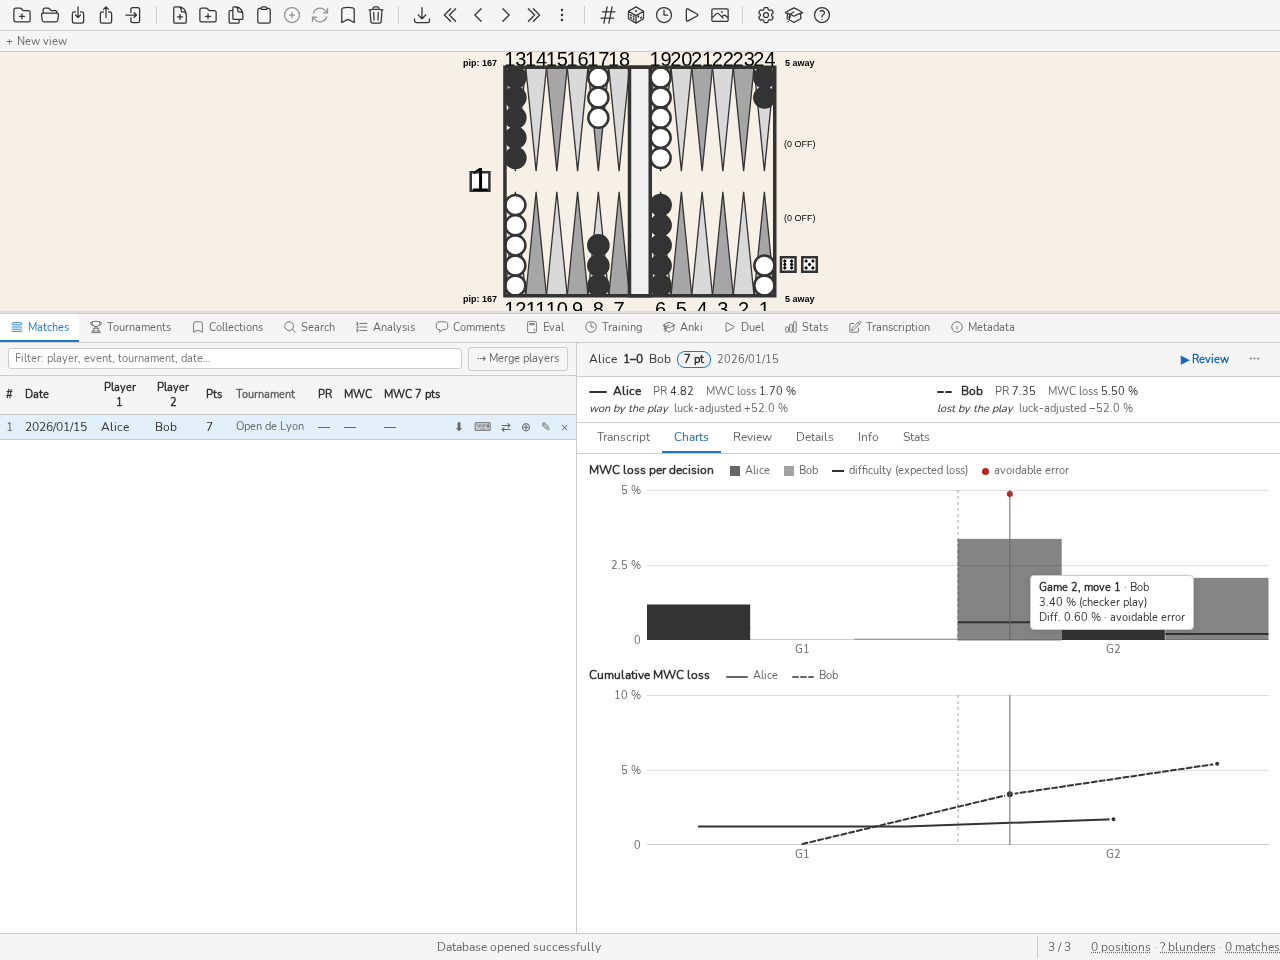
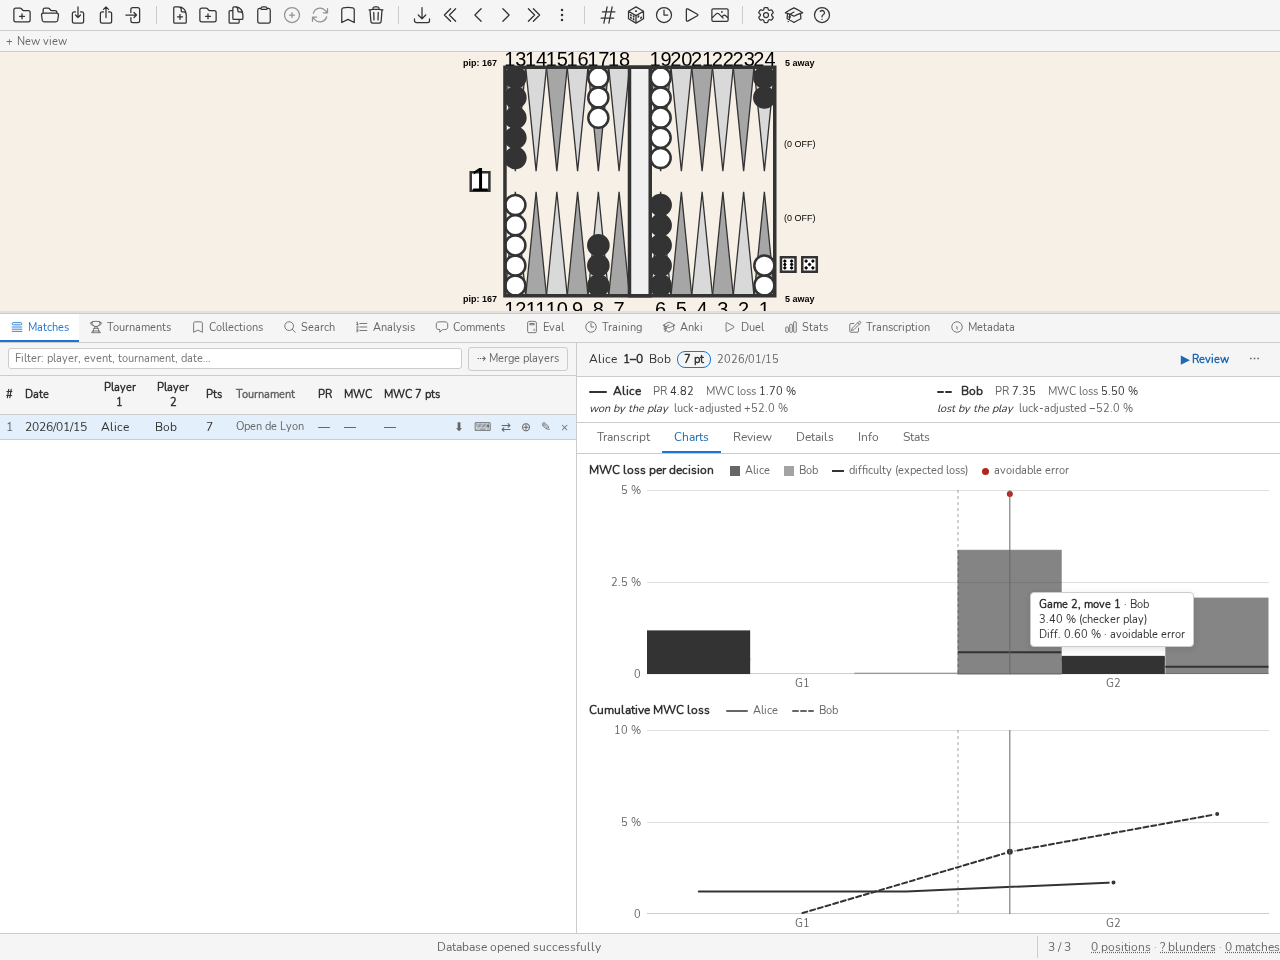
feat(match): les graphes se partagent la hauteur de l'onglet Graphes
Chaque graphe prend sa part de la hauteur de l'onglet (durées 2, pertes 5
pour 5), au-dessus d'un minimum lisible ; l'onglet ne défile que sous ce
minimum. Le tracé est mesuré à sa taille en pixels, l'info-bulle reste dans
ce cadre.

diff --git a/frontend/src/components/MatchLosses.svelte b/frontend/src/components/MatchLosses.svelte
@@ -11,17 +11,18 @@
     /** @type {{ losses: any[] | null, movePositions: any[], player1: string, player2: string, hovered?: number | null, onhover?: (moveId: number | null) => void, onselect?: (index: number) => void }} */
     let { losses, movePositions, player1, player2, hovered = null, onhover = () => {}, onselect = () => {} } = $props();
 
-    const H = 150;
+    // The least height a plot keeps; the Charts tab shares the rest of its height out.
+    const MIN_H = 140;
 
     let series = $derived(lossSeries(movePositions, losses));
     let peak = $derived(niceCeil(Math.max(0, ...series.items.map((d) => Math.max(d.loss ?? 0, d.difficulty ?? 0)))));
     let cumPeak = $derived(niceCeil(Math.max(series.totals[0], series.totals[1])));
     let names = $derived([player1, player2]);
 
-    /** @param {number} loss @param {number} top */
-    const barH = (loss, top) => (loss > 0 ? Math.max(1, (loss / top) * (H - 2)) : 0);
-    /** @param {number} cum */
-    const cumY = (cum) => H - 1 - (cum / cumPeak) * (H - 4);
+    /** @param {number} loss @param {number} top @param {number} H */
+    const barH = (loss, top, H) => (loss > 0 ? Math.max(1, (loss / top) * (H - 2)) : 0);
+    /** @param {number} cum @param {number} H */
+    const cumY = (cum, H) => H - 1 - (cum / cumPeak) * (H - 4);
 
     // The hovered decision is shared with the time chart by its Move, not its place.
     let hover = $derived.by(() => {
@@ -44,19 +45,29 @@
 
 {#if series.any}
     <div class="match-losses" role="group" aria-label={$t('match.lossTitle')} data-testid="match-losses">
-        <MatchChart testid="loss-plot-per" title={$t('match.lossPerDecision')} label={$t('match.lossChart')} height={H} {movePositions} ticks={ticks(peak)} focus={hover} onfocus={setHover} {onselect}>
+        <MatchChart
+            testid="loss-plot-per"
+            title={$t('match.lossPerDecision')}
+            label={$t('match.lossChart')}
+            minHeight={MIN_H}
+            {movePositions}
+            ticks={ticks(peak)}
+            focus={hover}
+            onfocus={setHover}
+            {onselect}
+        >
             {#snippet legend()}
                 <span><span class="key bar-key player1"></span>{names[0]}</span>
                 <span><span class="key bar-key player2"></span>{names[1]}</span>
                 <span title={$t('match.difficultyColTooltip')}><span class="key tick-key"></span>{$t('match.legendDifficulty')}</span>
                 <span><span class="key dot-key"></span>{$t('match.avoidable')}</span>
             {/snippet}
-            {#snippet marks({ slot })}
+            {#snippet marks({ slot, H })}
                 {#each series.items as d (d.index)}
                     {#if d.loss === null}
                         <rect class="unscored" x={d.index * slot} y={H - 1.5} width={Math.max(1, slot - 0.5)} height="1.5" />
                     {:else if d.loss > 0}
-                        {@const h = barH(d.loss, peak)}
+                        {@const h = barH(d.loss, peak, H)}
                         <rect
                             class="bar"
                             class:player1={d.player === 0}
@@ -69,7 +80,7 @@
                         />
                     {/if}
                     {#if d.difficulty !== null && d.difficulty > 0}
-                        {@const y = H - barH(d.difficulty, peak)}
+                        {@const y = H - barH(d.difficulty, peak, H)}
                         <line class="difficulty" x1={d.index * slot} y1={y} x2={d.index * slot + Math.max(1, slot - 0.5)} y2={y} />
                     {/if}
                     {#if d.avoidable}
@@ -85,7 +96,7 @@
             testid="loss-plot-cum"
             title={$t('match.lossCumulative')}
             label={$t('match.lossChart')}
-            height={H}
+            minHeight={MIN_H}
             {movePositions}
             ticks={ticks(cumPeak)}
             focus={hover}
@@ -96,9 +107,9 @@
                 <span><svg class="line-key" viewBox="0 0 22 6"><line class="line player1" x1="1" y1="3" x2="21" y2="3" /></svg>{names[0]}</span>
                 <span><svg class="line-key" viewBox="0 0 22 6"><line class="line player2" x1="1" y1="3" x2="21" y2="3" /></svg>{names[1]}</span>
             {/snippet}
-            {#snippet marks({ slot })}
+            {#snippet marks({ slot, H })}
                 {#each [0, 1] as p (p)}
-                    {@const pts = series.items.filter((d) => d.player === p).map((d) => ({ x: (d.index + 0.5) * slot, y: cumY(d.cum) }))}
+                    {@const pts = series.items.filter((d) => d.player === p).map((d) => ({ x: (d.index + 0.5) * slot, y: cumY(d.cum, H) }))}
                     {#if pts.length > 0}
                         {@const end = pts[pts.length - 1]}
                         <polyline class="line" class:player1={p === 0} class:player2={p === 1} points={pts.map(({ x, y }) => `${x.toFixed(1)},${y.toFixed(1)}`).join(' ')} />
@@ -106,7 +117,7 @@
                     {/if}
                 {/each}
                 {#if hover !== null && series.items[hover].loss !== null}
-                    <circle class="hot-dot" cx={(hover + 0.5) * slot} cy={cumY(series.items[hover].cum)} r="4" />
+                    <circle class="hot-dot" cx={(hover + 0.5) * slot} cy={cumY(series.items[hover].cum, H)} r="4" />
                 {/if}
             {/snippet}
             {#snippet tip(i)}
@@ -134,6 +145,7 @@
     .match-losses {
         display: flex;
         flex-direction: column;
+        flex: 5 1 0;
     }
     .key {
         display: inline-block;

diff --git a/frontend/src/components/MatchChart.svelte b/frontend/src/components/MatchChart.svelte
@@ -6,14 +6,14 @@
     import { t } from '../i18n';
     import { gameSpans, indexAt, stepIndex } from '../utils/chartAxis.js';
     import { placeTip } from '../utils/chartTip.js';
-    import { trackWidth } from '../utils/trackWidth.js';
+    import { trackSize } from '../utils/trackWidth.js';
 
     /**
      * @typedef {{
      *   testid: string,
      *   title: string,
      *   label: string,
-     *   height: number,
+     *   minHeight: number,
      *   movePositions: any[],
      *   ticks: { at: number, text: string }[],
      *   focus: number | null,
@@ -25,11 +25,15 @@
      * }} Props
      */
     /** @type {Props} */
-    let { testid, title, label, height, movePositions, ticks, focus, onfocus, onselect, legend, marks, tip } = $props();
+    let { testid, title, label, minHeight, movePositions, ticks, focus, onfocus, onselect, legend, marks, tip } = $props();
 
+    // Drawn at the plot's pixel size, so a dot stays round: the width is the
+    // sheet's, the height what the Charts tab gives this chart, never below
+    // minHeight.
     let plotWidth = $state(0);
+    let plotHeight = $state(0);
     let W = $derived(Math.max(160, Math.round(plotWidth) || 320));
-    let H = $derived(height);
+    let H = $derived(Math.max(minHeight, Math.round(plotHeight) || 0));
     let n = $derived(Math.max(1, movePositions.length));
     let slot = $derived(W / n);
     // Short game names only where the stretch is wide enough to hold one.
@@ -93,7 +97,7 @@
         {#if legend}<span class="legend">{@render legend()}</span>{/if}
     </figcaption>
     <div class="body">
-        <div class="y-axis" style="height: {H}px" aria-hidden="true">
+        <div class="y-axis" aria-hidden="true">
             {#each ticks as tk (tk.at)}
                 <span class="tick" style="top: {(1 - tk.at) * 100}%">{tk.text}</span>
             {/each}
@@ -107,8 +111,11 @@
             aria-label={label}
             title={active ? undefined : $t('match.chartOpen')}
             data-testid={testid}
-            style="height: {H}px"
-            use:trackWidth={(w) => (plotWidth = w)}
+            style="min-height: {minHeight}px"
+            use:trackSize={(w, h) => {
+                plotWidth = w;
+                plotHeight = h;
+            }}
             onmousemove={onMove}
             onmouseleave={leave}
             onclick={(e) => onselect(indexAt(e, movePositions.length))}
@@ -145,7 +152,11 @@
 </figure>
 
 <style>
+    /* A chart grows with the room its parent gives it; the plot takes the growth. */
     .chart {
+        flex: 1 1 0;
+        display: flex;
+        flex-direction: column;
         margin: 0;
         padding: 8px 12px 4px;
         font-size: var(--font-size-small);
@@ -171,8 +182,10 @@
     }
     /* The value axis in its own column, so no label sits over a mark. */
     .body {
+        flex: 1 1 auto;
         display: grid;
         grid-template-columns: 52px minmax(0, 1fr);
+        grid-template-rows: minmax(0, 1fr) auto;
         column-gap: 6px;
     }
     .y-axis {
@@ -192,7 +205,10 @@
         cursor: pointer;
         outline-offset: 2px;
     }
+    /* Out of the flow, so the drawing never feeds back into the size it is drawn at. */
     .plot svg {
+        position: absolute;
+        inset: 0;
         display: block;
         width: 100%;
         height: 100%;

diff --git a/frontend/src/components/MatchTimes.svelte b/frontend/src/components/MatchTimes.svelte
@@ -9,7 +9,7 @@
     let { summary, movePositions, player1, player2, hovered = null, onhover = () => {}, onselect = () => {} } = $props();
 
     // On the same decision axis as the loss charts.
-    const H = 110;
+    const MIN_H = 100;
 
     let bars = $derived(timeBars(movePositions));
     let peak = $derived(Math.max(1, ...bars.map((b) => b.ms)));
@@ -63,7 +63,7 @@
                 testid="times-plot"
                 title={$t('match.timesPerDecision')}
                 label={$t('match.timesChart')}
-                height={H}
+                minHeight={MIN_H}
                 {movePositions}
                 ticks={[
                     { at: 1, text: fmtDuration(peak) },
@@ -78,7 +78,7 @@
                         <span><span class="key" class:player1={i === 0} class:player2={i === 1}></span>{name}</span>
                     {/each}
                 {/snippet}
-                {#snippet marks({ slot })}
+                {#snippet marks({ slot, H })}
                     {#each bars as b (b.index)}
                         {@const h = Math.max(1, (b.ms / peak) * (H - 2))}
                         <rect
@@ -106,14 +106,15 @@
 
 <style>
     .match-times {
+        flex: 2 1 0;
         display: flex;
-        flex-wrap: wrap;
-        gap: 4px 12px;
-        align-items: flex-end;
-        padding: 6px 12px;
+        flex-direction: column;
+        gap: 4px;
+        padding: 6px 12px 0;
         font-size: var(--font-size-small);
     }
     .times-table {
+        align-self: flex-start;
         border-collapse: collapse;
     }
     .times-table th,
@@ -129,7 +130,9 @@
         text-align: left;
     }
     .times-chart {
-        flex: 1 1 100%;
+        flex: 1 1 auto;
+        display: flex;
+        flex-direction: column;
         min-width: 0;
         margin: 0 -12px;
     }

diff --git a/frontend/src/utils/trackWidth.js b/frontend/src/utils/trackWidth.js
@@ -17,3 +17,22 @@ export function trackWidth(node, onwidth) {
         destroy: () => observer.disconnect()
     };
 }
+
+/**
+ * Like trackWidth, for a chart that also takes the height its container
+ * gives it.
+ *
+ * @param {HTMLElement} node
+ * @param {(width: number, height: number) => void} onsize
+ */
+export function trackSize(node, onsize) {
+    let report = onsize;
+    report(node.clientWidth, node.clientHeight);
+    if (typeof ResizeObserver === 'undefined') return { update: (/** @type {(width: number, height: number) => void} */ fn) => (report = fn) };
+    const observer = new ResizeObserver(() => report(node.clientWidth, node.clientHeight));
+    observer.observe(node);
+    return {
+        update: (/** @type {(width: number, height: number) => void} */ fn) => (report = fn),
+        destroy: () => observer.disconnect()
+    };
+}

diff --git a/frontend/src/components/MatchPanel.svelte b/frontend/src/components/MatchPanel.svelte
@@ -1632,6 +1632,11 @@
         overflow-y: auto;
         text-align: left;
     }
+    /* The charts share the tab's height out; under their least height, the tab scrolls. */
+    .match-charts:not([hidden]) {
+        display: flex;
+        flex-direction: column;
+    }
     .tab-heading {
         margin: 12px 8px 4px;
         font-size: var(--font-size-base);
